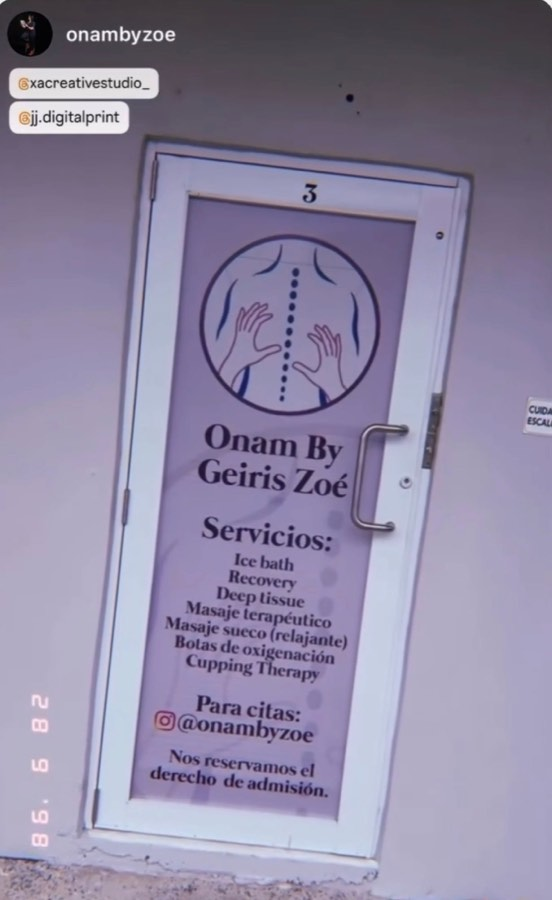
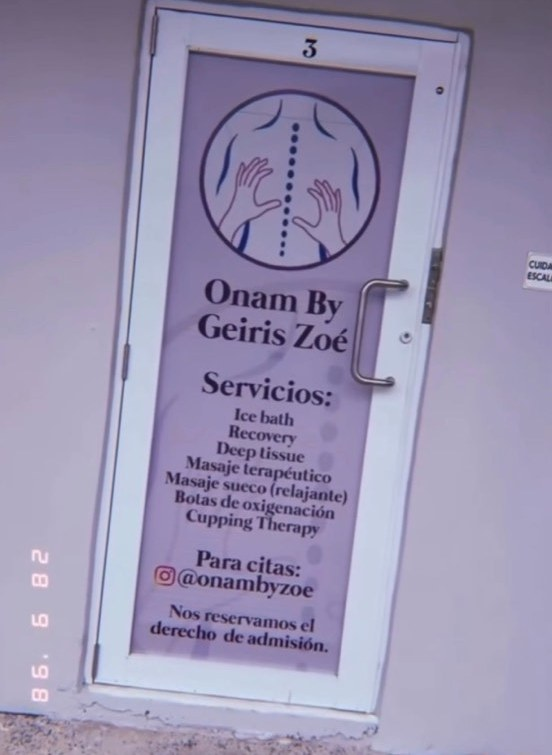
Portafolio: design-only framing for print work, hide print provider tag
- Crop Instagram story header from Onam by Zoé photo (removed visible print-shop tag)
- Home portfolio tags: Rotulación/Foil -> Diseño
- Portafolio papelería section: add current-offer note (proveedores externos)

diff --git a/index.html b/index.html
@@ -155,11 +155,11 @@
       </div>
       <div class="work-grid rv">
         <a class="card" href="#contacto"><img src="/img/p3.jpg" alt="Bella's Spot — tarjetas de presentación"><div class="ov"><div class="tag">Papelería · Tarjetas</div><h3>Bella's Spot</h3></div></a>
-        <a class="card" href="#contacto"><img src="/img/p1.jpg" alt="MS Beauty Lounge — rotulación de vitrina"><div class="ov"><div class="tag">Rotulación · Vitrina</div><h3>MS Beauty Lounge</h3></div></a>
+        <a class="card" href="#contacto"><img src="/img/p1.jpg" alt="MS Beauty Lounge — rotulación de vitrina"><div class="ov"><div class="tag">Diseño · Vitrina</div><h3>MS Beauty Lounge</h3></div></a>
         <a class="card" href="#contacto"><img src="/img/p4.jpg" alt="VitaDrip — stickers de marca"><div class="ov"><div class="tag">Stickers · Marca</div><h3>VitaDrip</h3></div></a>
         <a class="card" href="#contacto"><img src="/img/p2.jpg" alt="Edward Electric — tarjeta de presentación"><div class="ov"><div class="tag">Papelería · Tarjetas</div><h3>Edward Electric</h3></div></a>
-        <a class="card" href="#contacto"><img src="/img/p5.jpg" alt="Lys Tattoo — tarjetas de lealtad"><div class="ov"><div class="tag">Foil · Lealtad</div><h3>Lys Tattoo</h3></div></a>
-        <a class="card" href="#contacto"><img src="/img/p6.jpg" alt="Onam by Geiris Zoé — rotulación de puerta"><div class="ov"><div class="tag">Rotulación · Puerta</div><h3>Onam by Zoé</h3></div></a>
+        <a class="card" href="#contacto"><img src="/img/p5.jpg" alt="Lys Tattoo — tarjetas de lealtad"><div class="ov"><div class="tag">Diseño · Lealtad</div><h3>Lys Tattoo</h3></div></a>
+        <a class="card" href="#contacto"><img src="/img/p6.jpg" alt="Onam by Geiris Zoé — rotulación de puerta"><div class="ov"><div class="tag">Diseño · Puerta</div><h3>Onam by Zoé</h3></div></a>
       </div>
       <div class="work-foot rv"><a class="btn" href="/portafolio"><span class="t">Ver portafolio completo</span><span class="ar">→</span></a></div>
     </div>

diff --git a/portafolio.html b/portafolio.html
@@ -55,6 +55,7 @@
       <a href="/contacto"><img src="/img/p5.jpg" alt="Lys Tattoo — lealtad"></a>
       <a href="/contacto"><img src="/img/p6.jpg" alt="Onam by Zoé — rotulación"></a>
     </div>
+    <p class="pf-note rv">Diseñamos piezas alineadas a tu marca y gestionamos su producción con proveedores externos.</p>
     <div class="work-foot rv" style="margin-top:clamp(30px,4vw,52px)"><a class="btn" href="/contacto"><span class="t">Quiero algo así</span><span class="ar">→</span></a></div>
   </div></section>
 </main><footer><div class="wrap foot-in"><span>© 2026 XA Creative Studio · Barranquitas, Puerto Rico</span><span style="display:inline-flex;gap:1.4rem"><a href="/">Inicio</a><a href="/portafolio">Portafolio</a><a href="/contacto">Contacto</a><a href="https://instagram.com/xacreativestudio_" target="_blank" rel="noopener">Instagram</a></span></div></footer><script>(function(){var els=document.querySelectorAll('.rv');if(!('IntersectionObserver'in window)||matchMedia('(prefers-reduced-motion:reduce)').matches){els.forEach(function(e){e.classList.add('in')});return;}var io=new IntersectionObserver(function(en){en.forEach(function(x){if(x.isIntersecting){x.target.classList.add('in');io.unobserve(x.target)}})},{threshold:.1,rootMargin:'0px 0px -6% 0px'});els.forEach(function(e){io.observe(e)});})();</script></body></html>

diff --git a/style.css b/style.css
@@ -238,6 +238,7 @@
   .gallery a{display:block;margin-bottom:14px;break-inside:avoid;border-radius:4px;overflow:hidden;background:var(--oat-d)}
   .gallery img{width:100%;display:block;transition:transform .8s cubic-bezier(.2,.7,.2,1)}
   .gallery a:hover img{transform:scale(1.04)}
+  .pf-note{margin:clamp(30px,4vw,52px) auto 0;max-width:52ch;text-align:center;font-weight:500;color:var(--ink-soft);font-size:.98rem}
   /* case study */
   .case{border-bottom:1px solid var(--line)}
   .case:last-of-type{border-bottom:0}
